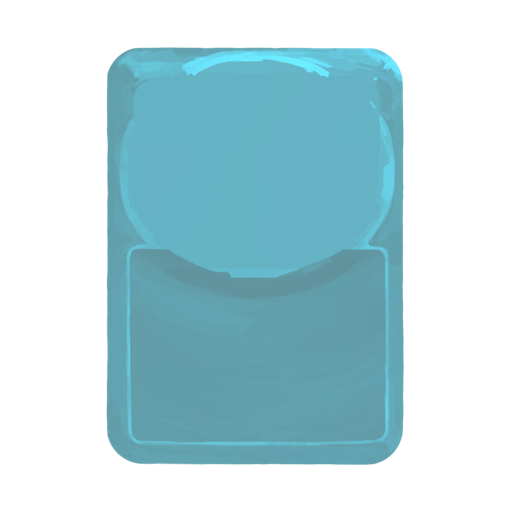
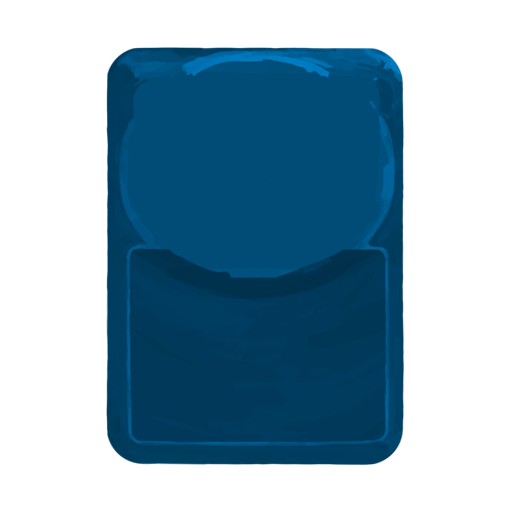
Bunch of Tweaks and Changes

diff --git a/src/main/java/researchersmod/cards/ExperimentCard.java b/src/main/java/researchersmod/cards/ExperimentCard.java
@@ -1,7 +1,9 @@
 package researchersmod.cards;
 
+import com.badlogic.gdx.graphics.Color;
 import com.megacrit.cardcrawl.cards.AbstractCard;
 import com.megacrit.cardcrawl.cards.DescriptionLine;
+import com.megacrit.cardcrawl.core.Settings;
 import researchersmod.Researchers;
 import researchersmod.util.CardStats;
 
@@ -29,6 +31,7 @@ public abstract class ExperimentCard extends BaseCard{
         BaseTrial = basetrial;
         Trial = basetrial;
         setCustomVar("Trial",VariableType.MAGIC,Trial,UpgradedTrial,(card, m, base) -> ((ExperimentCard)card).Trial);
+        colorCustomVar("Trial", Settings.BLUE_TEXT_COLOR,Settings.BLUE_TEXT_COLOR,Settings.BLUE_TEXT_COLOR,Settings.BLUE_TEXT_COLOR);
     }
 
     public int Trial = 1;

diff --git a/src/main/java/researchersmod/ui/ExperimentCardManager.java b/src/main/java/researchersmod/ui/ExperimentCardManager.java
@@ -159,6 +159,7 @@ public class ExperimentCardManager {
         ((ExperimentCard) c).Trial = p.amount;
         if(shouldComplete && amt > 0) {
             for(int i = amt; i>0; i--) {
+                c.flash();
                 for(AbstractPower power : Wiz.adp().powers){
                     if(p instanceof ExpUtil.onCompletionInterface){
                         ((ExpUtil.onCompletionInterface) power).onCompletion(power);
